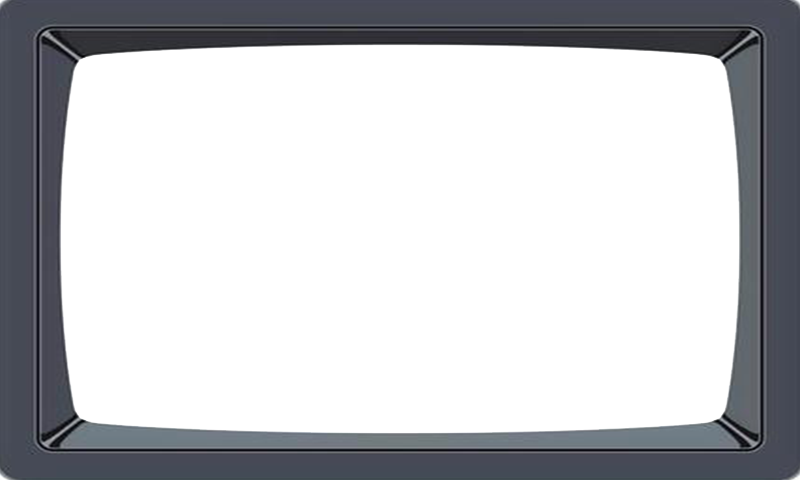
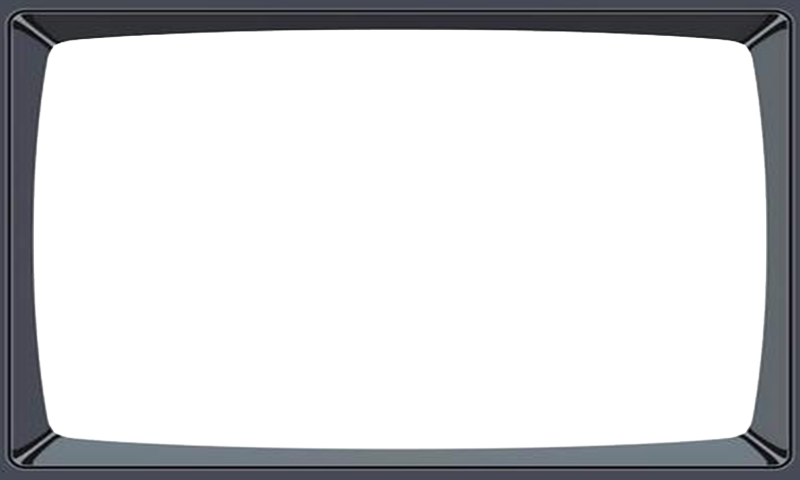
fix(welcome): updated frame + wider table + starting line + v1.5
- assets/img/talevision-frame.png: updated to new version from user
- inner_w: 52 → 64 (fixes 4-mode playlist overflowing the box borders)
- Replace "■ SYSTEM READY ■" with "[ STARTING IN 30 SECONDS ]" (square brackets)
- Version: v1.0 → v1.5
- Gap above footer line: 12 → 8px (slightly raised)

Changed region(s): [[0.0, 0.0, 1.0, 1.0]]

diff --git a/talevision/render/welcome_screen.py b/talevision/render/welcome_screen.py
@@ -172,7 +172,7 @@ def render_welcome_screen(
     playlist_str = " → ".join(p.upper() for p in playlist) if playlist else mode.upper()
     dashboard_url = f"http://{ip}:{port}"
 
-    inner_w = 52
+    inner_w = 64  # wide enough for 4-mode playlist + 6 chars breathing room per side
 
     info_lines = [
         _top(inner_w),
@@ -202,8 +202,8 @@ def render_welcome_screen(
         + lh_tagline + TAGLINE_TO_BOOT_GAP
         + lh_md + BOOT_TO_TABLE_GAP
         + len(info_lines) * lh_sm
-        + 12
-        + lh_md                 # SYSTEM READY
+        + 8
+        + lh_md                 # starting line
         + lh_sm                 # version
     )
     y = max((H_px - total_h) // 2, 28)  # 28 = frame inner top margin
@@ -230,16 +230,16 @@ def render_welcome_screen(
                   font=font_sm, fill=BLACK)
         y += lh_sm
 
-    y += 12
+    y += 8
 
-    # ── ■ SYSTEM READY ■ ──────────────────────────────────────────────────────
-    ready = "■  S Y S T E M   R E A D Y  ■"
-    draw.text(((W - text_w(ready, font_md)) // 2, y), ready,
+    # ── [ Starting in 30 seconds ] ────────────────────────────────────────────
+    starting = "[  S T A R T I N G   I N   3 0   S E C O N D S  ]"
+    draw.text(((W - text_w(starting, font_md)) // 2, y), starting,
               font=font_md, fill=RED)
     y += lh_md + 4
 
     # ── Version / credit ──────────────────────────────────────────────────────
-    ver = "TaleVision v1.0  ·  Netmilk Studio"
+    ver = "TaleVision v1.5  ·  Netmilk Studio"
     draw.text(((W - text_w(ver, font_sm)) // 2, y), ver,
               font=font_sm, fill=BLUE)
 
